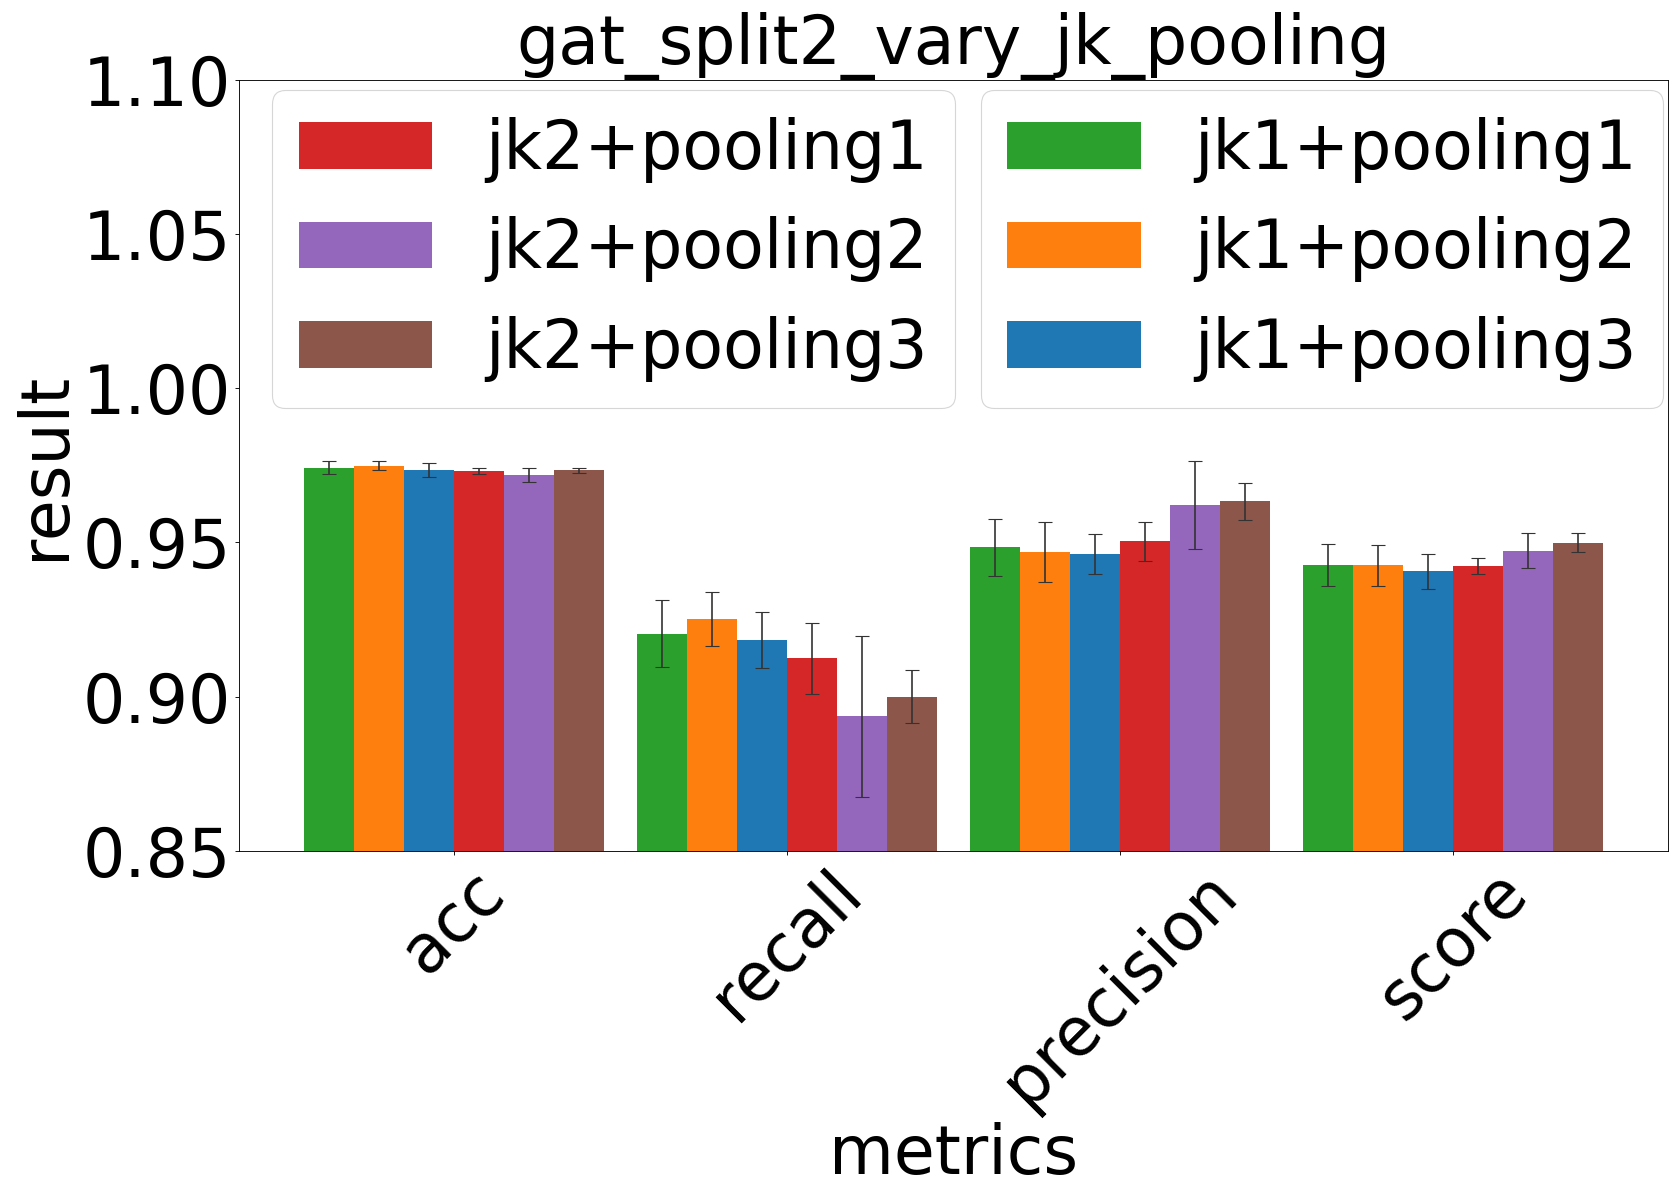
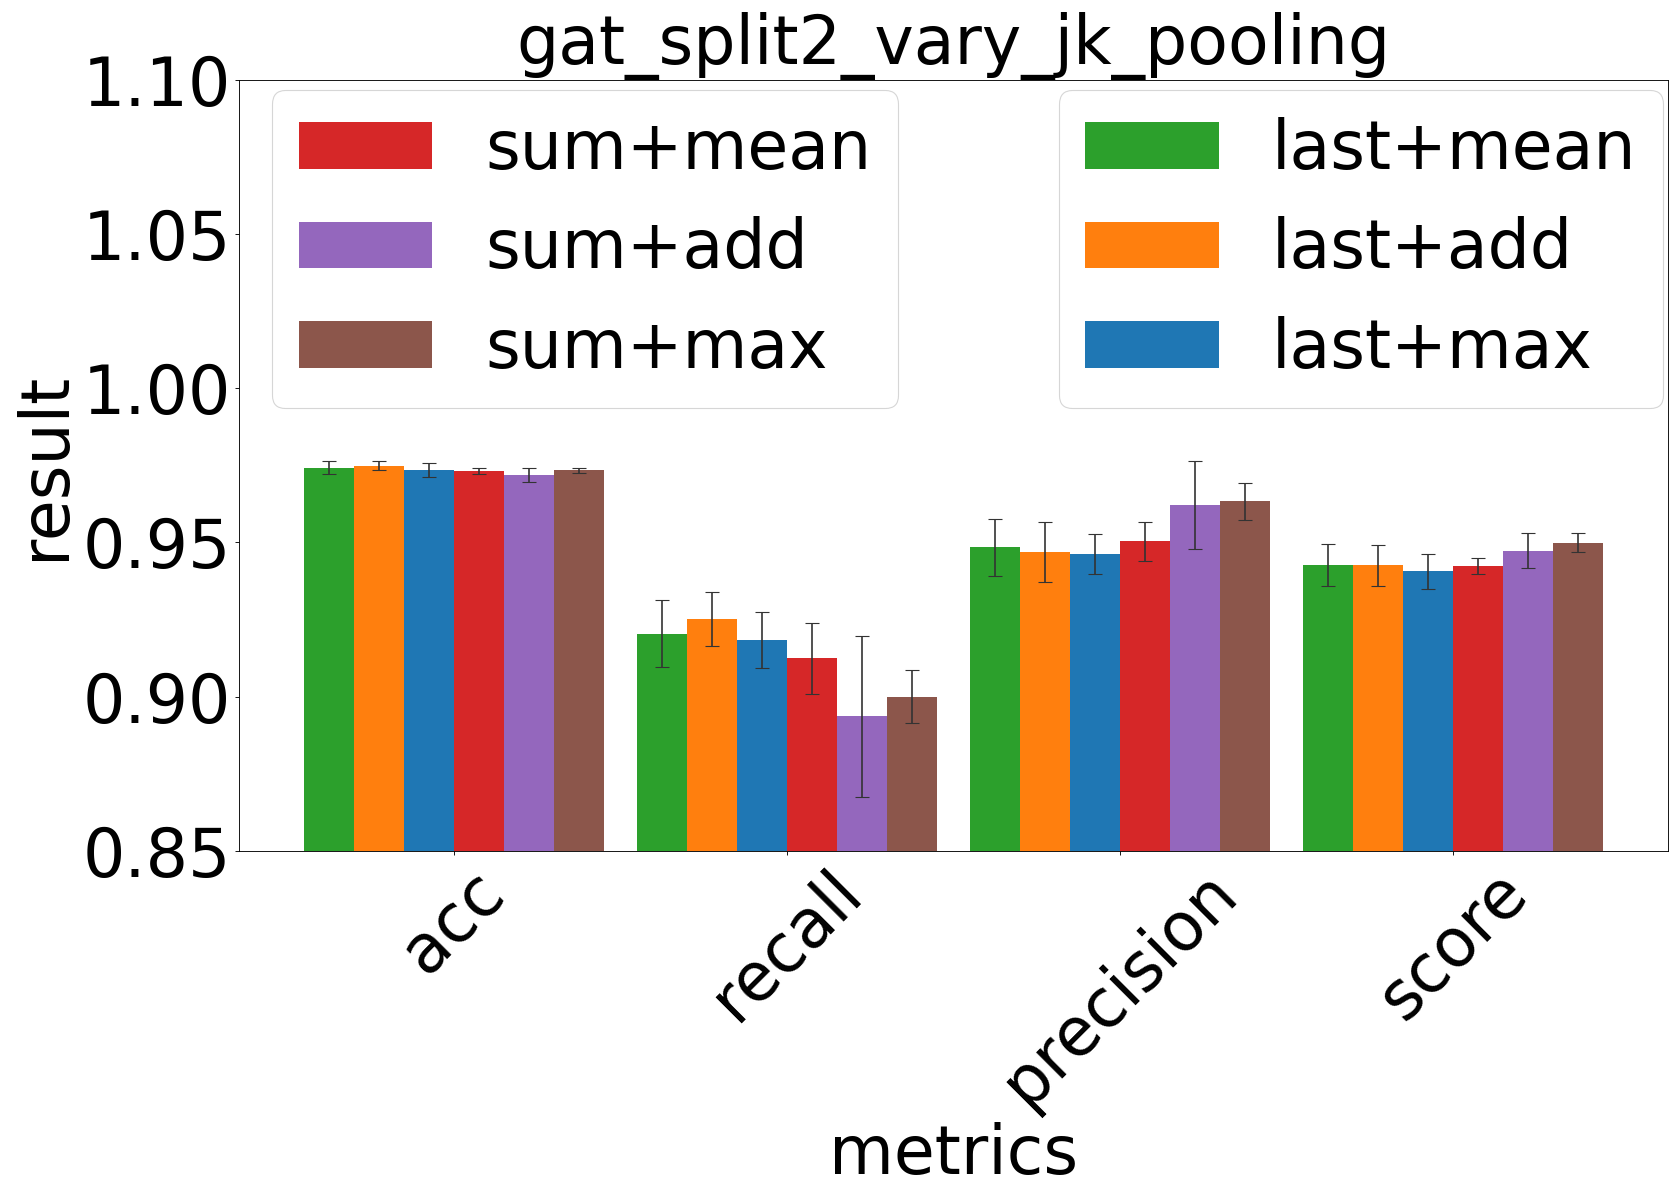
plot gcn vary jk+pooling

diff --git a/plot_bar.py b/plot_bar.py
@@ -5,6 +5,7 @@ import argparse
 parser = argparse.ArgumentParser()
 parser.add_argument('--with_std', type=int, default=1)
 parser.add_argument('--datafile', type=str, required=True, help='rslt data file')
+parser.add_argument('--readtype', type=str, required=True, help='gat, gcn')
 parser.add_argument('--outdir', type=str, default='./figures')
 parser.add_argument('--filename', type=str, default='', help='set the name of the output figure, default for similar to input filename')
 parser.add_argument('--filetype', type=str, default='png')
@@ -15,28 +16,55 @@ y_avg = {}
 y_std = {}
 configs = []
 metrics = []
-with open(f"rslt_data/{args.datafile}", "r") as fin:
-    line_cnt = 0
-    for line in fin.readlines():
-        items = line.strip('\n').split('Avg.')
-        config = (items[0].split('_')[1]+'+'+items[0].split('_')[2]).strip(',')
-        configs.append(config)
-        for i in range(1, len(items)):
-            metric_rslt = items[i].split(':')
-            metric = metric_rslt[0]
-            if line_cnt == 0:
-                metrics.append(metric)
-            if config not in y_avg.keys():
-                y_avg[config] = []
-                y_std[config] = []
-            avg_std = metric_rslt[1].split('+-')
-            y_avg[config].append(float(avg_std[0])/100)
-            y_std[config].append(float(avg_std[1][:4])/100)
-        line_cnt += 1
-
+if args.readtype == 'gat':
+    with open(f"rslt_data/{args.datafile}", "r") as fin:
+        line_cnt = 0
+        for line in fin.readlines():
+            items = line.strip('\n').split('Avg.')
+            # config = (items[0].split('_')[1]+'+'+items[0].split('_')[2]).strip(',')
+            config = items[0].strip(' ').strip(',')
+            configs.append(config)
+            for i in range(1, len(items)):
+                metric_rslt = items[i].split(':')
+                metric = metric_rslt[0]
+                if line_cnt == 0:
+                    metrics.append(metric)
+                if config not in y_avg.keys():
+                    y_avg[config] = []
+                    y_std[config] = []
+                avg_std = metric_rslt[1].split('+-')
+                y_avg[config].append(float(avg_std[0])/100)
+                y_std[config].append(float(avg_std[1][:4])/100)
+            line_cnt += 1
+elif args.readtype == 'gcn':
+    with open(f"rslt_data/{args.datafile}", "r") as fin:
+        variant_cnt = 0
+        for line in fin.readlines():
+            line = line.strip('\n')
+            if line[0] == '=':
+                line = line.strip('=')
+                jk_idx = line.index('JK:')
+                pooling_idx = line.index('Pooling:')
+                jk = line[jk_idx+3:pooling_idx].strip(' ')
+                pooling = line[pooling_idx+len('Pooling:'):].strip(' ')
+                config = 'JK:'+jk+'+Pooling:'+pooling
+                configs.append(config)
+                variant_cnt += 1
+            else:
+                metric_rslt = line.split(':')
+                metric = metric_rslt[0].strip(' ')
+                if variant_cnt <= 1:
+                    metrics.append(metric)
+                if config not in y_avg.keys():
+                    y_avg[config] = []
+                    y_std[config] = []
+                avg_std = metric_rslt[1].split('+/-')
+                y_avg[config].append(float(avg_std[0].strip(' ')))
+                y_std[config].append(float(avg_std[1].strip('%').strip(' '))/100)
+                
 print("y_avg:", y_avg)
 print("y_std:", y_std)
-
+print('configs:', configs)
 alpha=0.9
 color_dict = {'red':    '#D62728',
               'green':  '#2CA02C',
@@ -58,32 +86,40 @@ plt.figure(figsize=(21,15), dpi=80)
 xs_str = metrics
 x_locs = np.arange(len(xs_str))  # x轴刻度标签位置
 width = 0.15 # 柱子宽度
+# labels
+labels = []
+for i in range(len(configs)):
+    jk_pooling = configs[i].split('+')
+    labels.append(jk_pooling[0].split(':')[1] + '+' + jk_pooling[1].split(':')[1])
+
 # 6个柱子
 if args.with_std == 1:
-    bar1 = plt.bar(x_locs-2.5*width, y_avg[configs[0]], yerr=y_std[configs[0]], width=width, error_kw=error_kw, alpha=alpha ,color=color_dict['green'], label=configs[0])
-    bar2 = plt.bar(x_locs-1.5*width, y_avg[configs[1]], yerr=y_std[configs[1]], width=width, error_kw=error_kw, alpha=alpha ,color=color_dict['orange'], label=configs[1])
-    bar3 = plt.bar(x_locs-0.5*width, y_avg[configs[2]], yerr=y_std[configs[2]], width=width, error_kw=error_kw, alpha=alpha, color=color_dict['blue'], label=configs[2])
-    bar4 = plt.bar(x_locs+0.5*width, y_avg[configs[3]], yerr=y_std[configs[3]], width=width, error_kw=error_kw, alpha=alpha, color=color_dict['red'], label=configs[3])
-    bar5 = plt.bar(x_locs+1.5*width, y_avg[configs[4]], yerr=y_std[configs[4]], width=width, error_kw=error_kw, alpha=alpha, color=color_dict['purple'], label=configs[4])
-    bar6 = plt.bar(x_locs+2.5*width, y_avg[configs[5]], yerr=y_std[configs[5]], width=width, error_kw=error_kw, alpha=alpha, color=color_dict['brown'], label=configs[5])
+    bar1 = plt.bar(x_locs-2.5*width, y_avg[configs[0]], yerr=y_std[configs[0]], width=width, error_kw=error_kw, alpha=alpha ,color=color_dict['green'], label=labels[0])
+    bar2 = plt.bar(x_locs-1.5*width, y_avg[configs[1]], yerr=y_std[configs[1]], width=width, error_kw=error_kw, alpha=alpha ,color=color_dict['orange'], label=labels[1])
+    bar3 = plt.bar(x_locs-0.5*width, y_avg[configs[2]], yerr=y_std[configs[2]], width=width, error_kw=error_kw, alpha=alpha, color=color_dict['blue'], label=labels[2])
+    bar4 = plt.bar(x_locs+0.5*width, y_avg[configs[3]], yerr=y_std[configs[3]], width=width, error_kw=error_kw, alpha=alpha, color=color_dict['red'], label=labels[3])
+    bar5 = plt.bar(x_locs+1.5*width, y_avg[configs[4]], yerr=y_std[configs[4]], width=width, error_kw=error_kw, alpha=alpha, color=color_dict['purple'], label=labels[4])
+    bar6 = plt.bar(x_locs+2.5*width, y_avg[configs[5]], yerr=y_std[configs[5]], width=width, error_kw=error_kw, alpha=alpha, color=color_dict['brown'], label=labels[5])
 else:
-    bar1 = plt.bar(x_locs-1.5*width, y_avg[configs[0]], width=width, alpha=alpha ,color=color_dict['green'], label=configs[0])
-    bar2 = plt.bar(x_locs-0.5*width, y_avg[configs[1]], width=width, alpha=alpha ,color=color_dict['orange'], label=configs[1])
-    bar3 = plt.bar(x_locs+0.5*width, y_avg[configs[2]], width=width, alpha=alpha, color=color_dict['blue'], label=configs[2])
-    bar4 = plt.bar(x_locs+1.5*width, y_avg[configs[3]], width=width, alpha=alpha, color=color_dict['red'], label=configs[3])
-    bar5 = plt.bar(x_locs+1.5*width, y_avg[configs[4]], width=width, alpha=alpha, color=color_dict['purple'], label=configs[4])
-    bar6 = plt.bar(x_locs+2.5*width, y_avg[configs[5]], width=width, alpha=alpha, color=color_dict['brown'], label=configs[5])
+    bar1 = plt.bar(x_locs-1.5*width, y_avg[configs[0]], width=width, alpha=alpha ,color=color_dict['green'], label=labels[0])
+    bar2 = plt.bar(x_locs-0.5*width, y_avg[configs[1]], width=width, alpha=alpha ,color=color_dict['orange'], label=labels[1])
+    bar3 = plt.bar(x_locs+0.5*width, y_avg[configs[2]], width=width, alpha=alpha, color=color_dict['blue'], label=labels[2])
+    bar4 = plt.bar(x_locs+1.5*width, y_avg[configs[3]], width=width, alpha=alpha, color=color_dict['red'], label=labels[3])
+    bar5 = plt.bar(x_locs+1.5*width, y_avg[configs[4]], width=width, alpha=alpha, color=color_dict['purple'], label=labels[4])
+    bar6 = plt.bar(x_locs+2.5*width, y_avg[configs[5]], width=width, alpha=alpha, color=color_dict['brown'], label=labels[5])
 
 plt.xticks(x_locs, labels=xs_str, fontsize=ticks_fontsize, rotation=45)
 plt.yticks(fontsize=ticks_fontsize)
 # plt.ylim(90,100)
 plt.ylim(0.85,1.10)
+if args.datafile == 'gcn_split1_vary_jk_pooling.txt':
+    plt.ylim(0.91,1.06)
 figure_title = args.datafile.split('.')[0]
 plt.title(f'{figure_title}', fontsize=fontsize)
 plt.xlabel(f'metrics', fontsize=fontsize)
 plt.ylabel(f'result', fontsize=fontsize)
-a=plt.legend([bar1, bar2, bar3],[configs[0], configs[1], configs[2]], loc="upper right", bbox_to_anchor=(1.02,1.03), fontsize=legend_fontsize)
-plt.legend([bar4, bar5, bar6],[configs[3], configs[4], configs[5]],loc="upper left", bbox_to_anchor=(0.00,1.03), fontsize=legend_fontsize)
+a=plt.legend([bar1, bar2, bar3],[labels[0], labels[1], labels[2]], loc="upper right", bbox_to_anchor=(1.02,1.03), fontsize=legend_fontsize)
+plt.legend([bar4, bar5, bar6],[labels[3], labels[4], labels[5]],loc="upper left", bbox_to_anchor=(0.00,1.03), fontsize=legend_fontsize)
 plt.gca().add_artist(a)
 # plt.legend(loc='upper right', bbox_to_anchor=(1, 1), ncol=2, fontsize=legend_fontsize)
 plt.tight_layout()

diff --git a/README.md b/README.md
@@ -35,7 +35,12 @@
 
 例如，
 * gat不同jk+pooling组合结果画图：
-```python
-python plot_bar.py --datafile gat_split1_vary_jk_pooling.txt
-python plot_bar.py --datafile gat_split2_vary_jk_pooling.txt
-```
+    ```python
+    python plot_bar.py --datafile gat_split1_vary_jk_pooling.txt --readtype gat
+    python plot_bar.py --datafile gat_split2_vary_jk_pooling.txt--readtype gat
+    ```
+* gcn不同jk+pooling组合结果画图：
+     ```python
+    python plot_bar.py --datafile gcn_split1_vary_jk_pooling.txt --readtype gcn
+    python plot_bar.py --datafile gcn_split2_vary_jk_pooling.txt--readtype gcn
+    ```
